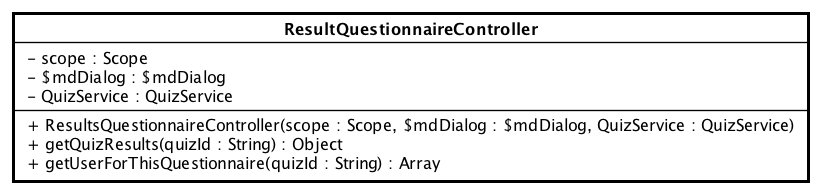
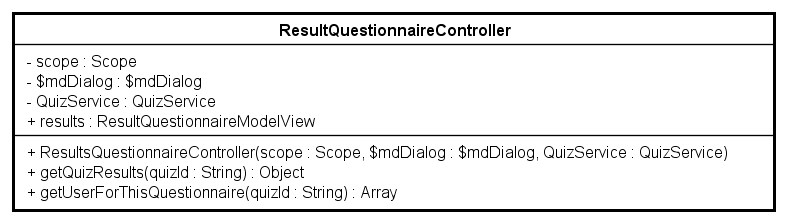
Eliminato ResultsQuestionnaireController - Front-End

Changed region(s): [[0.0, 0.0309, 1.0, 0.9588]]

diff --git a/RP/DefinizioneDiProdotto/sezioni/Front-End/Controllers/QuizziPedia_Front-End_Controllers_ResultsQuestionnaireController.tex b/RP/DefinizioneDiProdotto/sezioni/Front-End/Controllers/QuizziPedia_Front-End_Controllers_ResultsQuestionnaireController.tex
@@ -19,6 +19,8 @@
 		\item \texttt{-} \texttt{\$mdDialog: \$mdDialog} \\
 		Campo dati contenente un riferimento al servizio della libreria \textit{Material for Angular\ped{G}} che permette di creare delle componenti a popup;
 		\item \textit{-} \texttt{QuizService: QuizService}: questa classe permette di ottenere i dati di un quiz tramite delle parole chiave inserite dall'utente nella barra di ricerca;
+		\item \texttt{+} \texttt{results: ResultQuestionnaireModelView} \\
+		Oggetto di tipo \texttt{ResultQuestionnaireModelView}. All'interno di esso sono presenti le variabili e i metodi necessari per il \textit{Two-Way Data-Binding\ped{G}} tra la view \texttt{ResultsView} e il controller \texttt{ResultsController}.
 	\end{itemize}
 	\item \textbf{Metodi}:
 	\begin{itemize}

diff --git a/RP/DefinizioneDiProdotto/sezioni/Front-End/QuizziPedia_Front-End_Controllers.tex b/RP/DefinizioneDiProdotto/sezioni/Front-End/QuizziPedia_Front-End_Controllers.tex
@@ -41,7 +41,6 @@
 \input{sezioni/Front-End/Controllers/QuizziPedia_Front-End_Controllers_QuestionsManagementController.tex}
 \input{sezioni/Front-End/Controllers/QuizziPedia_Front-End_Controllers_QuizEventController.tex}
 \input{sezioni/Front-End/Controllers/QuizziPedia_Front-End_Controllers_RegistrationManagementController.tex}
-\input{sezioni/Front-End/Controllers/QuizziPedia_Front-End_Controllers_ResultsController.tex}
 \input{sezioni/Front-End/Controllers/QuizziPedia_Front-End_Controllers_ResultsQuestionnaireController.tex}
 \input{sezioni/Front-End/Controllers/QuizziPedia_Front-End_Controllers_SearchController.tex}
 \input{sezioni/Front-End/Controllers/QuizziPedia_Front-End_Controllers_SignUpController.tex}
